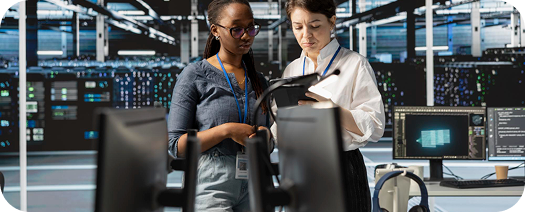
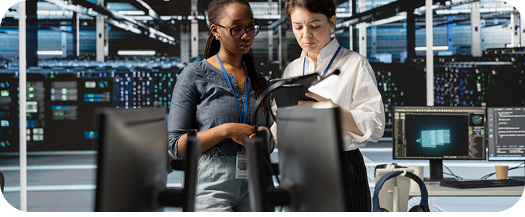
hero section almost done

diff --git a/src/app/(frontend)/components/HeroSection.tsx b/src/app/(frontend)/components/HeroSection.tsx
@@ -1,6 +1,7 @@
 'use client'
 
 import Image from 'next/image'
+import Link from 'next/link'
 import { useCallback, useEffect, useRef, useState } from 'react'
 
 const slideCount = 3
@@ -11,15 +12,21 @@ const heroCopy = {
     'IT solutions and support that keeps your business shielded from worrying about digital downtime.',
 }
 
+const heroCopy2 = {
+  title: 'We handle the tech, while you accelerate your business.',
+  description:
+    'Right from phone systems to internet security to workplace IT solutions, our Cybernauts take care of the tech side so your business can run on lightening speed.',
+}
+
 const videoAssets = {
   splitVideo: {
-    mp4: '/videos/helpdesk-left.mp4',
-    webm: '/videos/helpdesk-left.webm',
-    poster: '/images/hero-slide-2.png',
+    mp4: '/images/hero/hero.mp4',
+    webm: '/images/hero/hero.webm',
+    poster: '/images/hero-slide-3.png',
   },
   backgroundVideo: {
-    mp4: '/videos/helpdesk-background.mp4',
-    webm: '/videos/helpdesk-background.webm',
+    mp4: '/images/hero/hero.mp4',
+    webm: '/images/hero/hero.webm',
     poster: '/images/hero-slide-1.png',
   },
 }
@@ -95,6 +102,24 @@ const TextBox = ({ centered = false }: { centered?: boolean }) => (
     <p className="mt-6 text-pretty text-lg leading-8 text-white/82 sm:text-xl lg:text-2xl">
       {heroCopy.description}
     </p>
+  </div>
+)
+
+const TextBox2 = ({ centered = false }: { centered?: boolean }) => (
+  <div className={centered ? 'mx-auto max-w-5xl text-center' : 'max-w-2xl'}>
+    <h1 className="text-balance text-4xl font-extrabold uppercase leading-tight tracking-normal text-white sm:text-5xl lg:text-[2.8rem]">
+      {heroCopy2.title}
+    </h1>
+    <p className="mt-6 text-pretty text-lg leading-8 text-white/82 sm:text-xl lg:text-2xl">
+      {heroCopy2.description}
+    </p>
+    <Link
+      href="about"
+      target="_blank"
+      className="triangle-cta text-white py-3 px-6 block mt-4 inline-block mt-8"
+    >
+      <span className="flex items-center gap-2">Know More</span>
+    </Link>
   </div>
 )
 
@@ -205,14 +230,14 @@ export const HeroSection = () => {
         }`}
         aria-hidden={activeSlide !== 0}
       >
-        <div className="grid h-60 gap-4 bg-black p-4 md:grid-cols-4">
+        <div className="grid h-60 gap-4 pt-4 px-4 md:grid-cols-[1fr_0.5fr_1fr_0.5fr]">
           <CollageImage image={collageBoxes[0]} priority />
           <CollageImage image={collageBoxes[1]} />
           <CollageImage image={collageBoxes[2]} />
           <CollageImage image={collageBoxes[3]} />
         </div>
 
-        <div className="grid h-96 gap-4 bg-black p-4 md:grid-cols-4">
+        <div className="grid h-96 gap-4 pt-4 px-4 md:grid-cols-[0.5fr_1fr_0.5fr_1fr]">
           <CollageImage image={collageBoxes[4]} />
           <div className="col-span-2 flex items-center rounded-[24px] bg-[#121212] px-7 py-8 md:px-12 lg:px-16">
             <TextBox />
@@ -220,7 +245,7 @@ export const HeroSection = () => {
           <CollageImage image={collageBoxes[5]} />
         </div>
 
-        <div className="grid h-60 gap-4 bg-black p-4 md:grid-cols-4">
+        <div className="grid h-60 gap-4 p-4 md:grid-cols-[0.5fr_0.5fr_1fr_1fr]">
           <CollageImage image={collageBoxes[6]} />
           <CollageImage image={collageBoxes[7]} />
           <CollageImage image={collageBoxes[8]} />
@@ -240,8 +265,8 @@ export const HeroSection = () => {
           <div className="relative min-h-[320px] overflow-hidden rounded-[26px] md:min-h-0">
             <VideoPanel mode="splitVideo" />
           </div>
-          <div className="flex items-center rounded-[26px] bg-[radial-gradient(circle_at_15%_0%,rgba(35,116,132,0.24),transparent_35%),#111] px-8 py-12 md:px-14 lg:px-24">
-            <TextBox />
+          <div className="flex items-center rounded-[26px] bg-[linear-gradient(135deg,_#1e2b2f,_#0a1013)] px-8 py-12 md:px-14 lg:px-24">
+            <TextBox2 />
           </div>
         </div>
       </div>
@@ -260,23 +285,8 @@ export const HeroSection = () => {
         <div className="absolute inset-0 bg-black/60" />
         <div className="absolute inset-0 bg-[linear-gradient(90deg,rgba(2,10,15,0.78),rgba(2,10,15,0.35),rgba(2,10,15,0.74))]" />
         <div className="relative z-10 flex h-full items-center justify-center px-5">
-          <TextBox centered />
+          <TextBox2 centered />
         </div>
-      </div>
-
-      <div className="absolute bottom-5 left-1/2 z-20 flex -translate-x-1/2 items-center gap-2 rounded-full border border-white/10 bg-black/45 px-3 py-2 backdrop-blur-md">
-        {Array.from({ length: slideCount }).map((_, index) => (
-          <button
-            key={index}
-            type="button"
-            onClick={() => setActiveSlide(index)}
-            className={`h-2 rounded-full transition-all duration-300 ${
-              index === activeSlide ? 'w-8 bg-white' : 'w-2 bg-white/45 hover:bg-white/70'
-            }`}
-            aria-label={`Show hero slide ${index + 1}`}
-            aria-current={index === activeSlide ? 'true' : undefined}
-          />
-        ))}
       </div>
 
       <div className="absolute right-5 top-1/2 z-20 hidden -translate-y-1/2 flex-col gap-3 md:flex">